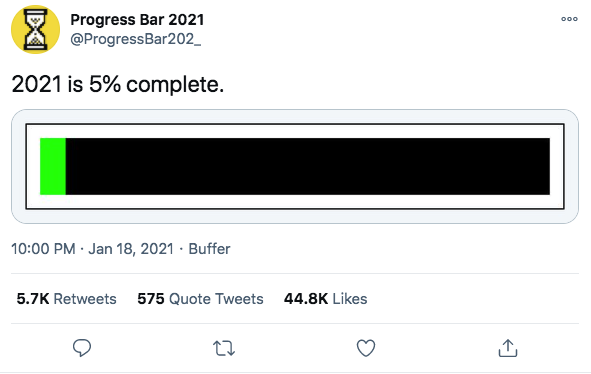
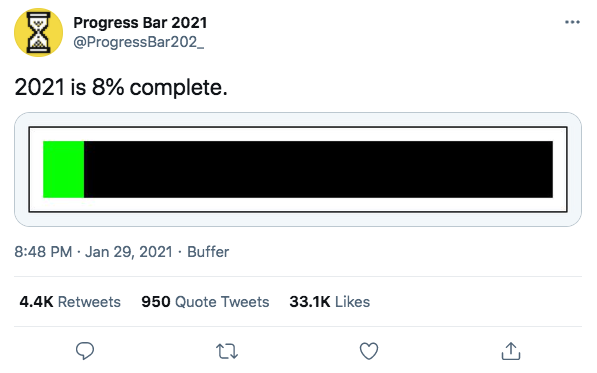
tweak

diff --git a/projects/2020.md b/projects/2020.md
@@ -1,20 +1,21 @@
-# Analysing a year
+# Analysing optimism in 2020
 
 *AUTHOR*: Emre Okcular
 
 Date : January 21st 2021
 
-After an extraordinary year, we even completed 5% of the 2021.
+After an extraordinary year, we have already completed 8% of the 2021.
 
 ![5percent](/resources/5percent_progress_bar.png)
 
 Did you ever wonder the optimism trend about 2021 during 2020 ?
 
-To answer this question, all the tweets and replies of the twitter bot account @ProgressBar202_ is analysed.
+To answer this question, all the tweets and replies of the twitter bot account [@ProgressBar202_](https://twitter.com/ProgressBar202_) is collected with Twitter API.
 
 ![5percent](/resources/profile.png)
 
-This account divides the year into 100 pieces and tweets 1% progress in every 4 days.
+Progress Bar 2021 divides the year into 100 pieces and tweets 1% progress in every 4 days.
 
 ![5percent](/resources/timeline.png)
 
+100 tweets that show the progress of the year and the replies are collected and analysed.
